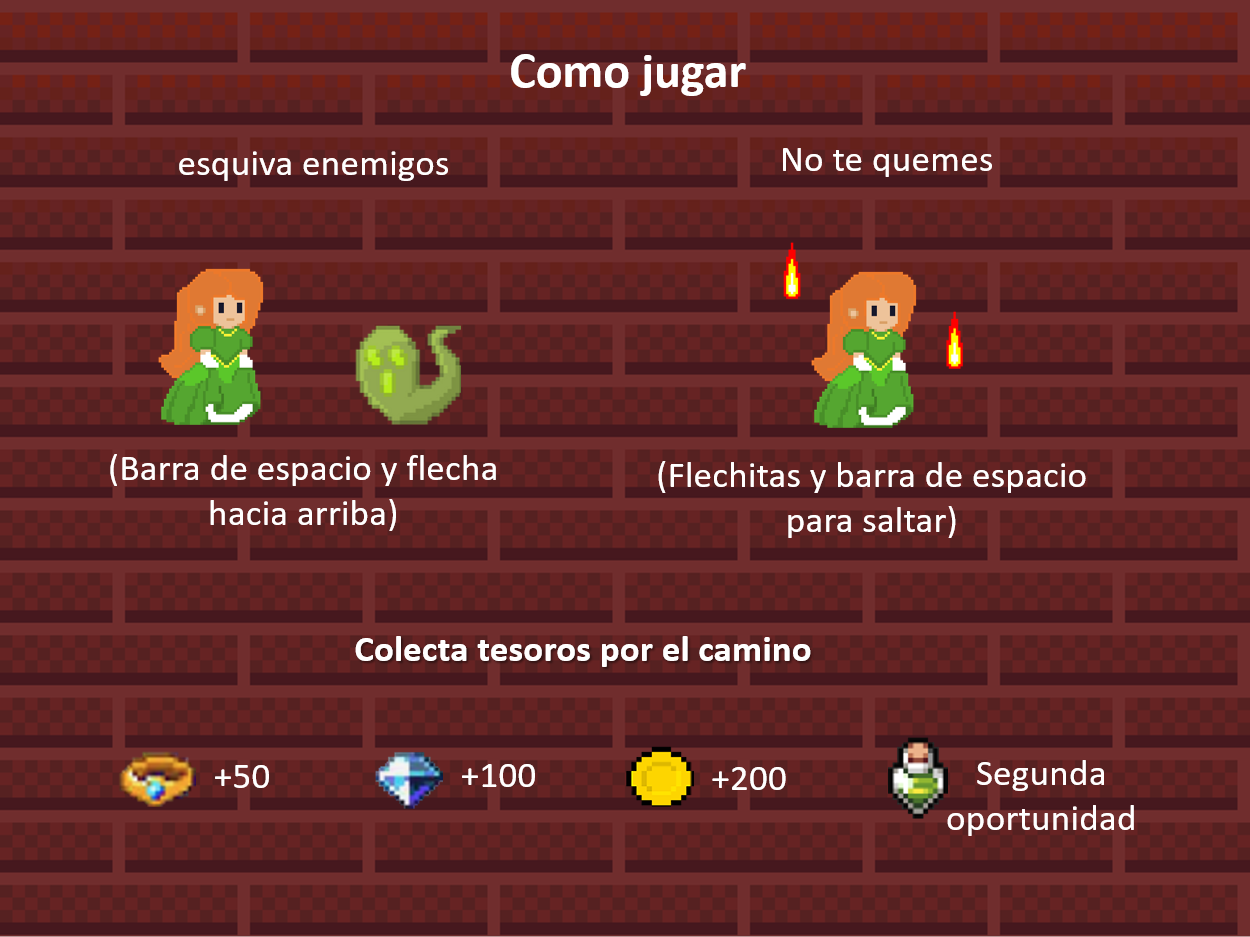
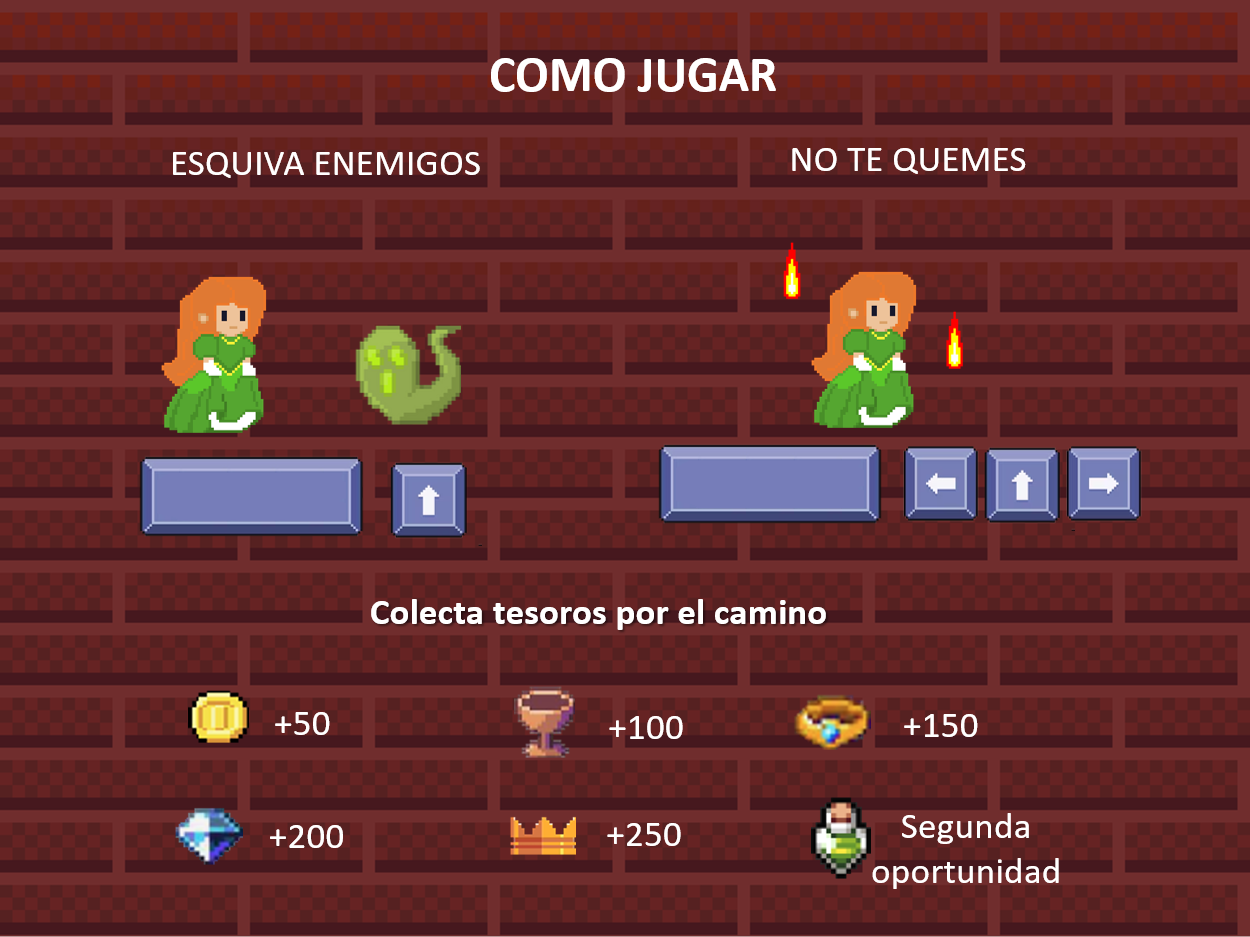
edicion escena ayuda

diff --git a/assets/scenes/Etapa2.js b/assets/scenes/Etapa2.js
@@ -7,7 +7,7 @@ import {
   OBJETOS_DELAY,  
   VIDAEXTRA,
   GEMA,
-  COLLAR,
+  CORONA,
   ANILLO,
   CALIZ,
   OBJETOS_PANTALLA,
@@ -20,13 +20,13 @@ export default class Juego extends Phaser.Scene {
 
   init(data) {
     this.objetoRecolectado = {
-          [MONEDA]: { prob: 0.8, score: 50 },
-          [GEMA]: { prob: 0.6, score: 100 },
-          [COLLAR]: { prob: 0.5, score: 150 },
-          [ANILLO]: { prob: 0.3, score: 200 },
-          [CALIZ]: { prob: 0.1, score: 500 },
-          [VIDAEXTRA]: { prob: 0.3, score: 0 },
-        };
+      [MONEDA]: { prob: 0.8, score: 50 },
+      [GEMA]: { prob: 0.5, score: 200 },
+      [CORONA]: { prob: 0.1, score: 250 },
+      [ANILLO]: { prob: 0.3, score: 150 },
+      [CALIZ]: { prob: 0.6, score: 100 },
+      [VIDAEXTRA]: { prob: 0.3, score: 0 },
+    };
 
         this.tiempoPantalla = 0;
         this.vidaExtra = false;
@@ -209,7 +209,7 @@ export default class Juego extends Phaser.Scene {
       );
     }
 
-    const randomY = Phaser.Math.RND.between(20, 450);
+    const randomY = Phaser.Math.RND.between(100, 450);
     const randomX = Phaser.Math.RND.between(20, 450);
 
     

diff --git a/assets/scenes/Etapa1.js b/assets/scenes/Etapa1.js
@@ -8,7 +8,7 @@ import {
     OBJETOS_DELAY,
     VIDAEXTRA,
     GEMA,
-    COLLAR,
+    CORONA,
     ANILLO,
     CALIZ,
 } from "../../utils.js";  
@@ -26,10 +26,10 @@ export default class Juego extends Phaser.Scene {
 
       this.objetoRecolectado = {
         [MONEDA]: { prob: 0.8, score: 50 },
-        [GEMA]: { prob: 0.6, score: 100 },
-        [COLLAR]: { prob: 0.5, score: 150 },
-        [ANILLO]: { prob: 0.3, score: 200 },
-        [CALIZ]: { prob: 0.1, score: 500 },
+        [GEMA]: { prob: 0.5, score: 200 },
+        [CORONA]: { prob: 0.1, score: 250 },
+        [ANILLO]: { prob: 0.3, score: 150 },
+        [CALIZ]: { prob: 0.6, score: 100 },
         [VIDAEXTRA]: { prob: 0.3, score: 0 },
       };
 
@@ -253,7 +253,7 @@ export default class Juego extends Phaser.Scene {
         );
       }
   
-      const randomY = Phaser.Math.RND.between(20, 450);
+      const randomY = Phaser.Math.RND.between(100, 450);
 
       const probTotal = OBJETOS.reduce((total, objeto) => total + objeto.probabilidad, 0);
       const numRandom = Phaser.Math.RND.frac() * probTotal;  //número aleatorio entre 0 y el peso total utilizando 

diff --git a/assets/scenes/Etapa1Inicio.js b/assets/scenes/Etapa1Inicio.js
@@ -8,7 +8,7 @@ import {
     OBJETOS_DELAY,
     VIDAEXTRA,
     GEMA,
-    COLLAR,
+    CORONA,
     ANILLO,
     CALIZ,
 } from "../../utils.js";  
@@ -26,10 +26,10 @@ export default class Juego extends Phaser.Scene {
 
       this.objetoRecolectado = {
         [MONEDA]: { prob: 0.8, score: 50 },
-        [GEMA]: { prob: 0.6, score: 100 },
-        [COLLAR]: { prob: 0.5, score: 150 },
-        [ANILLO]: { prob: 0.3, score: 200 },
-        [CALIZ]: { prob: 0.1, score: 500 },
+        [GEMA]: { prob: 0.5, score: 200 },
+        [CORONA]: { prob: 0.1, score: 250 },
+        [ANILLO]: { prob: 0.3, score: 150 },
+        [CALIZ]: { prob: 0.6, score: 100 },
         [VIDAEXTRA]: { prob: 0.3, score: 0 },
       };
 
@@ -252,7 +252,7 @@ export default class Juego extends Phaser.Scene {
         );
       }
   
-      const randomY = Phaser.Math.RND.between(20, 450);
+      const randomY = Phaser.Math.RND.between(100, 450);
 
       const probTotal = OBJETOS.reduce((total, objeto) => total + objeto.probabilidad, 0);
       const numRandom = Phaser.Math.RND.frac() * probTotal;  //número aleatorio entre 0 y el peso total utilizando 

diff --git a/utils.js b/utils.js
@@ -17,13 +17,13 @@ const OBSTACULOS_DELAY = 600;
 
 const MONEDA = "moneda";
 const CALIZ = "caliz";
-const COLLAR = "collar";
+const CORONA = "corona";
 const ANILLO = "anillo";
 const GEMA = "gema";
 
-const OBJETOS = [MONEDA,VIDAEXTRA,CALIZ,COLLAR,ANILLO,GEMA];
+const OBJETOS = [MONEDA,VIDAEXTRA,CALIZ,CORONA,ANILLO,GEMA];
 const OBJETOS_DELAY = 2000;
 
 const OBJETOS_PANTALLA = 3000;
 
-export {ENEMIGOS,ENEMIGOS_DELAY, FANTASMA, OJO,FUEGO,OBSTACULOS, OBSTACULOS_DELAY,MONEDA,CALIZ,COLLAR,ANILLO,GEMA,OBJETOS,OBJETOS_DELAY,OBJETOS_PANTALLA,VIDAEXTRA};
+export {ENEMIGOS,ENEMIGOS_DELAY, FANTASMA, OJO,FUEGO,OBSTACULOS, OBSTACULOS_DELAY,MONEDA,CALIZ,CORONA,ANILLO,GEMA,OBJETOS,OBJETOS_DELAY,OBJETOS_PANTALLA,VIDAEXTRA};

diff --git a/assets/scenes/Precarga.js b/assets/scenes/Precarga.js
@@ -26,7 +26,7 @@ export default class Precarga extends Phaser.Scene {
     this.load.image("fuego", "./assets/imagess/fuego.png");
     this.load.image("moneda", "./assets/images/moneda.png");
     this.load.image("caliz", "./assets/images/caliz.png");
-    this.load.image("collar", "./assets/images/collar.png");
+    this.load.image("corona", "./assets/images/corona.png");
     this.load.image("gema", "./assets/images/gema.png");
     this.load.image("anillo", "./assets/images/anillo.png");
 
